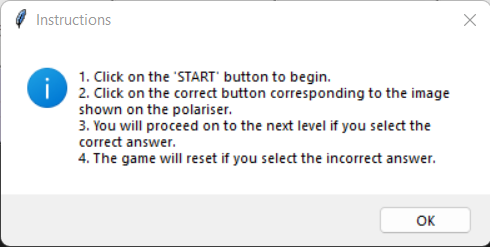
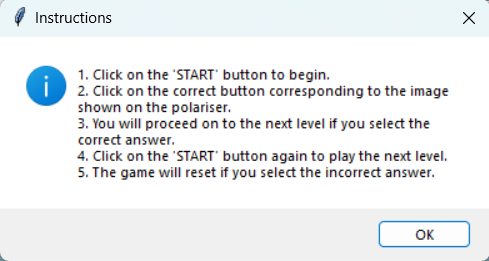
focus done

diff --git a/README.md b/README.md
@@ -1870,12 +1870,21 @@ main.bind("<Return>", change_img)
 
 <br>
 
-![](markdown%20imgs/iconSS.png)
+![](Demo%20Pics/Icon.png)
 *Test Your Concentration GUI*
 
 <br>
 
 ## **Test Your Concentration Function:**
+<br>
+
+Declare variables:
+```
+counter = 0   
+running = False  
+global naming
+```
+
 <br>
 
 To send images in the game to the polariser :
@@ -1893,7 +1902,7 @@ def show_Image_focus(choice3):
 We will have to create a message box for the user to read the instructions and understand how the game works.
 ```
 def getinstruction():
-    messagebox.showinfo("Instructions", "1. Click on the 'START' button to begin.\n2. Click on the correct button corresponding to the image shown on the polariser.\n3. You will proceed on to the next level if you select the correct answer.\n4. The game will reset if you select the incorrect answer.")
+    messagebox.showinfo("Instructions", "1. Click on the 'START' button to begin.\n2. Click on the correct button corresponding to the image shown on the polariser.\n3. You will proceed on to the next level if you select the correct answer.\n4. Click on the 'START' button again to play the next level.\n5. The game will reset if you select the incorrect answer.")
 ```
 
 <br>
@@ -1901,7 +1910,6 @@ def getinstruction():
 Output:
 
 ![Alt text](focusbutton%20pics/instructions.png)
-<br>
 
 *Message Box for instructions*
 
@@ -1932,15 +1940,13 @@ def counter_label(label):
             string = tt.strftime("00:00:%S")
             display=string
             label['text']=display
-   
-           
+      
             timer.after(1000, count) 
             counter += 1
             
             if counter > 20:
                 Stop(10)
-           
-   
+             
     count()
 ```
 
@@ -1952,7 +1958,7 @@ def click():
     global numberxlist
     numberx = random.randint(0,5) 
     if len(numberxlist) >= 1:  
-        while numberx == numberxlist[0]: #To check if the random int is the same as the previous random generate int
+        while numberx == numberxlist[0]: 
             numberx = random.randint(0,5)
         else:
             numberxlist[0] = numberx 
@@ -1965,7 +1971,7 @@ def click():
 
 <br>
 
-To create the Selection Buttons :
+When user click on the selection buttons, timer will stop and execute messagebox :
 ```
 def Stop(m):
     global running, numberxlist, Lno, counter, storetime, display
@@ -1995,31 +2001,30 @@ def Stop(m):
 
 <br>
 
-Set icons for each level :
+In each level, the selection buttons will change according to what we have set :
 ```
 def Reset(label):
-    global counter, Lno, icons, storetime
+    global counter, Lno, icons, storetime, naming
     counter=0
    
-  
-    if running==False: 
+    if running==False:  #When timer is not running
         start['state']='normal'      
         label['text']='Welcome!'
         level['text']='Level '+ str(Lno)
         if Lno == 1:
-            icons = ['KFC', 'Jollibee', 'McDonalds', 'Pizza Hut', 'Mos Burger', 'Texas Chicken']
+            icons = ['KFC', 'Jollibee', 'Popeyes', 'Pizza Hut', 'Mos Burger', 'Texas Chicken']
             for i in range (0, 6):
                 btn[i]['text']=icons[i]
         elif Lno == 2:
-            icons = ['Puma', 'A&W', 'Fila', 'BMW', 'Subway', 'Ferrari']
+            icons = ['Puma', 'Converse', 'Fila', 'Nike', 'Under Armour', 'Reebok']
             for i in range (0, 6):
                 btn[i]['text']=icons[i]
         elif Lno == 3:
-            icons = ['Hawkeye', 'Hulk', 'Nissan', 'Rolls Royce', 'Burger King', 'Dominos']
+            icons = ['Ferrari', 'Hyundai', 'Mitsubishi', 'Rolls Royce', 'Honda', 'Mercedes']
             for i in range (0, 6):
                 btn[i]['text']=icons[i]
         else:
-            icons = ['Netflix', 'Tiktok', 'Youtube', 'Twitter', 'Instagram', 'Facebook']  
+            icons = ['Facebook', 'Instagram', 'Twitter', 'Youtube', 'Tiktok', 'Netflix']  #Level 0
             for i in range (0, 6):
                 btn[i]['text']=icons[i]
 ```
@@ -2033,7 +2038,22 @@ Sample Output:
 
 <br>
 
-For user to enter their name at the end of the game :
+The motivational quote of image will loop when user click on the selection button.
+```
+    focuspiclist = ["come","conquer","control","hang","happy","important","living","openup","tough","turnout","focusquote"]
+    naming = naming+1
+    if naming > len(focuspiclist)-1:
+        naming = 0
+    path = "motivationalquotes/" + focuspiclist[naming] + ".png"
+    focusImages = Image.open(path)
+    loadImage = ImageTk.PhotoImage(focusImages)
+    focuspic.image = loadImage
+    focuspic.config(image = loadImage)
+```
+
+<br>
+
+Get the name of the user when they win the game :
 ```
 def getname():
     name = simpledialog.askstring("Test", "What's your Name?:")
@@ -2050,7 +2070,7 @@ Output:
 
 <br>
 
-Creating a message box to display the name player has entered and after the player has won the game :
+Creating a message box to display the player name and time taken when they win the game :
 ```
 def correctbox():
     global storetime
@@ -2123,7 +2143,7 @@ focusframe = Frame(middleframe)
 
 <br>
 
-The main focus frame :
+The midframe contains Timer, Label and Start button :
 ```
 midframe = Frame(focusframe)
 midframe.grid(row=2, columnspan=6)
@@ -2131,7 +2151,7 @@ midframe.grid(row=2, columnspan=6)
 
 <br>
 
-The buttons frame :
+The frameone contains the selection buttons:
 ```
 frameone = Frame(focusframe)
 frameone.grid(row=3, column=0)
@@ -2141,7 +2161,7 @@ frameone.grid(row=3, column=0)
 
 Firstly, we set the title to 'ICONcentrate'. You can change the title to your preference.
 ```
-headername = Label(focusframe, text="ICONcentrate", font=('Arial', 30), fg='#96DED1') 
+headername = Label(focusframe, text="ICONcentrate", font=('Arial', 40), fg='#4542fb') 
 headername.grid(row=0, column=0)
 ```
 
@@ -2149,8 +2169,8 @@ headername.grid(row=0, column=0)
 
 Next, we created the **Instructions** button for the game, in which the user would need to click on the button so that a pop-up window would appear and show them the instructions.
 ```
-instrubtn = Button(focusframe, text='Instructions', font=('Arial', 15), bg = '#b0c8ed', fg='white', command=getinstruction)
-instrubtn.grid(row=1, column=0)
+instrubtn = Button(focusframe, text='Instructions', font=('Arial', 25), bg = '#a4c6eb', fg='black', command=getinstruction)
+instrubtn.grid(row=1, column=0, ipadx=25, ipady=10)
 ```
 
 <br>
@@ -2173,7 +2193,7 @@ storetime = 0
 
 Level :
 ```
-level = Label(midframe, text='Level '+ str(Lno), font=('Arial', 15))
+level = Label(midframe, text='Level '+ str(Lno), font=('Arial', 20))
 level.grid(row=2, column=0)
 ```
 
@@ -2189,7 +2209,7 @@ Output:
 
 Timer :
 ```
-timer = Label(midframe, text='Welcome', font=('Arial', 15))
+timer = Label(midframe, text='Welcome', font=('Arial', 20))
 timer.grid(row=2, column=1, padx=100)
 ```
 
@@ -2205,8 +2225,8 @@ Output:
 
 Start Button :
 ```
-start = Button(midframe, text='Start', font=('Arial', 15), command=lambda:Start(timer))
-start.grid(row=2, column=2, ipadx=30)
+start = Button(midframe, text='Start', bg='#d4fafa', fg='black', activebackground='#80e2ff', font=('Arial', 20), command=lambda:Start(timer))
+start.grid(row=2, column=2, ipadx=30, ipady=5)
 ```
 
 <br>
@@ -2221,11 +2241,12 @@ Output:
 
 Selection Buttons :
 ```
-icons = ['Facebook', 'Instagram', 'Twitter', 'Youtube', 'Tiktok', 'Netflix']
-btn = [i for i in range(len(icons))] 
+icons = ['Facebook', 'Instagram', 'Twitter', 'Youtube', 'Tiktok', 'Netflix'] 
+btn = [i for i in range(len(icons))]  
 
-for i in range (0, 6):
-    btn[i] = Button(frameone, text=icons[i], state='disabled', width=10, height=2, font=("Courier", 15), command=lambda m=i:Stop(m), wraplength=130)
+for i in range (0, 6):  #Assigning array values into btn 
+    btn[i] = Button(frameone, text=icons[i], state='disabled', width=10, height=2, font=("Courier", 15),
+     activebackground='#80e2ff', command=lambda m=i:Stop(m), wraplength=130) #so that texaschicken text can fully show on the button
     btn[i].grid(row=0, column=i)
 ```
 
@@ -2236,6 +2257,18 @@ Output:
 ![Alt text](focusbutton%20pics/game.png)
 
 *Selection Buttons*
+
+<br>
+
+Motivational image quotes :
+```
+naming = -1
+focuspath = "motivationalquotes/focusquote.png"
+focusImage = Image.open(focuspath)
+luckyyImage = ImageTk.PhotoImage(focusImage)
+focuspic = Label(frameone, image=luckyyImage)
+focuspic.grid(row=1, columnspan=6)
+```
 
 <br>
 
